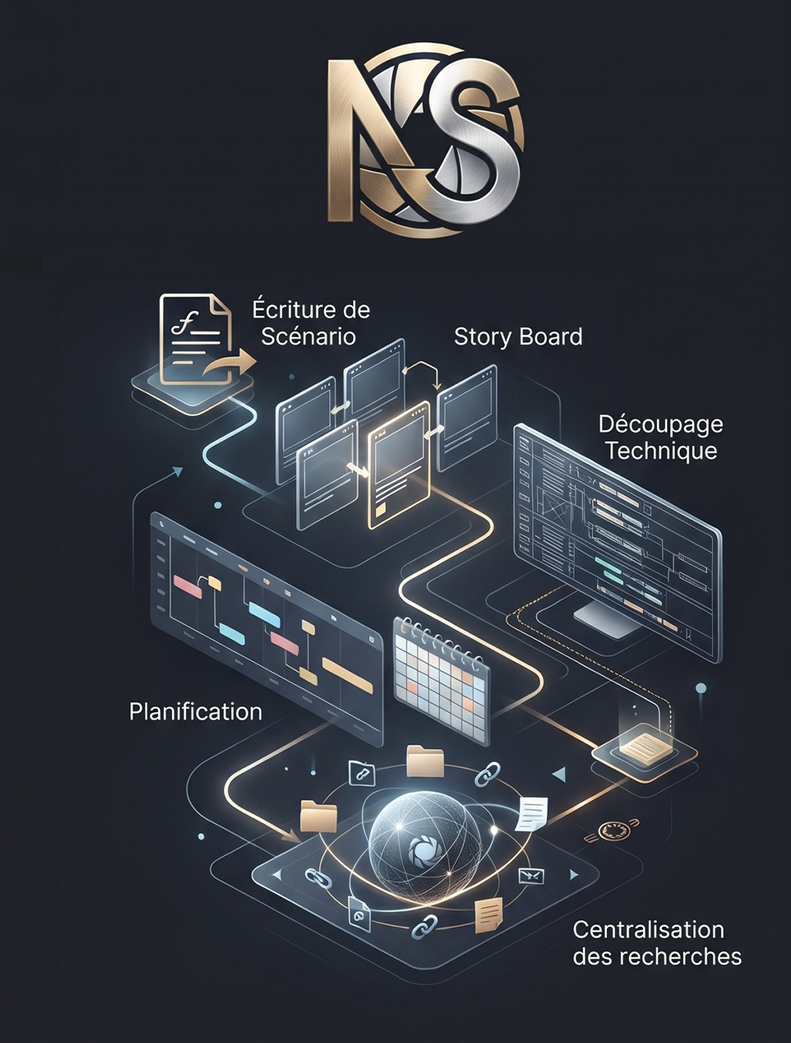
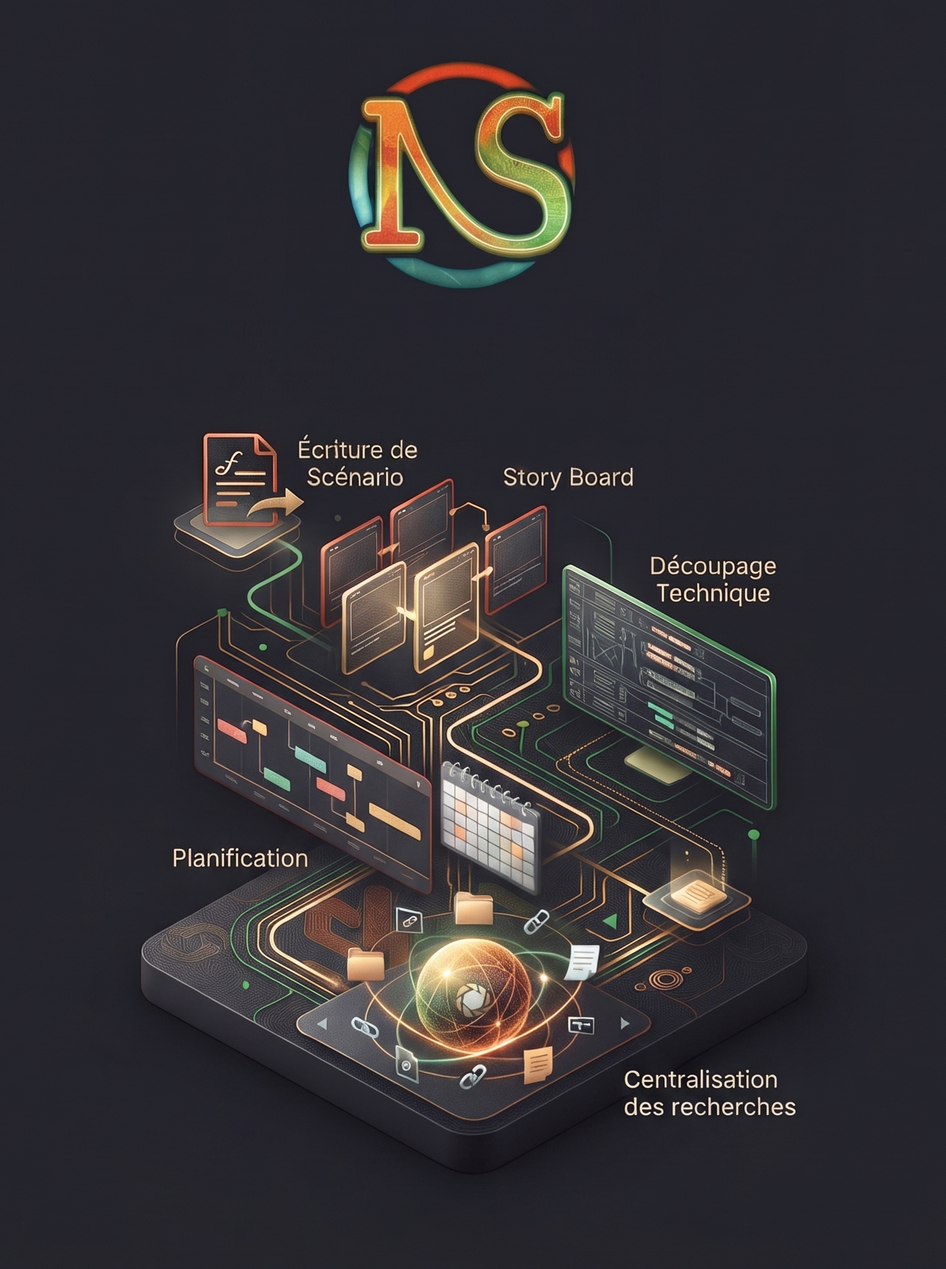
Réalise l'étape 17A : barre de modules réordonnée et « Données du projet »
- Nouvel ordre : Données du projet, Planification, Cartes, Scénario, Statistiques.
- « Recherches » devient « Données du projet » à l'écran ; icône dossier.
- Nouveau visuel d'accueil (visuel-accueil.jpg).
- Ajoute la spec du lot 1 (étape 17) et l'essai barre-modules.mjs ; met à jour les essais existants.

Changed region(s): [[0.1236, 0.2778, 0.9577, 0.9568], [0.3707, 0.0309, 0.6797, 0.2469], [0.865, 0.6481, 0.8959, 0.679]]

diff --git a/src/renderer/components/ModuleBar.tsx b/src/renderer/components/ModuleBar.tsx
@@ -16,10 +16,10 @@ interface ModuleEntry {
 // Les modules sans identifiant ne sont pas encore disponibles : visibles mais grisés.
 const MODULES: ModuleEntry[] = [
   { icon: 'research', name: fr.modules.research, id: 'research' },
+  { icon: 'planning', name: fr.modules.planning, id: 'planning' },
   { icon: 'cards', name: fr.modules.cards, id: 'cards' },
   { icon: 'script', name: fr.modules.script, id: 'script' },
-  { icon: 'stats', name: fr.modules.stats, id: 'stats' },
-  { icon: 'planning', name: fr.modules.planning, id: 'planning' }
+  { icon: 'stats', name: fr.modules.stats, id: 'stats' }
 ]
 
 /** Barre verticale des modules, avec en haut le menu du projet (☰). */

diff --git a/src/renderer/i18n/fr.ts b/src/renderer/i18n/fr.ts
@@ -214,7 +214,7 @@ const macTexts = {
   },
   modules: {
     project: 'Projet',
-    research: 'Recherches',
+    research: 'Données du projet',
     cards: 'Cartes',
     script: 'Scénario',
     stats: 'Statistiques',
@@ -222,7 +222,7 @@ const macTexts = {
     comingSoon: (name: string): string => `${name} — Bientôt disponible`
   },
   research: {
-    tree: 'Recherches',
+    tree: 'Données du projet',
     characters: 'Personnages',
     places: 'Lieux',
     documents: 'Documents',

diff --git a/src/renderer/components/Icon.tsx b/src/renderer/components/Icon.tsx
@@ -2,7 +2,7 @@
 
 const PATHS = {
   menu: 'M4 6h16M4 12h16M4 18h16',
-  research: 'M10.5 4a6.5 6.5 0 1 0 0 13 6.5 6.5 0 0 0 0-13zM15.5 15.5 20 20',
+  research: 'M3 6h6l2 2h10v11H3z',
   cards: 'M3 5h7v6H3zM14 5h7v6h-7zM3 14h7v6H3zM14 14h7v6h-7z',
   script: 'M6 3h9l4 4v14H6zM15 3v4h4M9 11h7M9 15h7',
   stats: 'M5 20V11M10 20V5M15 20v-7M20 20V8',

diff --git a/Documentation/specs/etape-17-lot-1-retours.md b/Documentation/specs/etape-17-lot-1-retours.md
@@ -1,0 +1,131 @@
+# Étape 17 — Lot 1 des retours d'usage (avant 16D)
+
+Source : note de David du 21 novembre 2026 (`VaultObsidian/00_Inbox/NeoScenar - Mise à jour.md`) et `etat-du-projet.md`, section « Retours d'usage (21 nov.) ».
+
+## Périmètre
+
+Dans ce lot :
+
+1. Barre de modules : nouvel ordre, « Recherches » devient « Données du projet », icône dossier.
+2. Panneau « Données du projet » : indentation, rubrique active en couleur.
+3. Générique : rubriques repliées par défaut, état gardé, boutons « Tout réduire » et « Tout déployer ».
+4. Module Carte : autocomplétion de l'en-tête de scène.
+5. Préférences : entrées personnelles pour les menus Échelle de plan, Mouvement de caméra et Angle de prise de vue.
+6. Nouvelle icône de l'application et visuel d'accueil.
+
+**Hors de ce lot** (après 16D, ne rien préparer) : nouveaux documents (log line, tag line, synopsis, pitch, note d'intention), nouvel ordre des rubriques qui les inclut, fenêtre d'export avec cases à cocher, plan de tournage (personnages sans dialogue, interprètes ajoutés à la main). **Écarté** : réglage des raccourcis de la barre d'outils du scénario.
+
+Règle commune : on ne renomme **rien dans le code ni dans les fichiers du projet** (`research`, dossiers `personnages/`, `lieux/`, `documents/` restent tels quels). Seuls les textes affichés changent.
+
+Une sous-étape = plan court, réalisation, essais, accord de David, commit, mise à jour de `etat-du-projet.md`, `/clear`.
+
+---
+
+## 17A — Barre de modules
+
+**À faire**
+
+- Ordre des boutons, de haut en bas : **Données du projet, Planification, Carte, Scénario, Statistiques**.
+- Texte affiché « Recherches » → « Données du projet » partout où il apparaît à l'écran : infobulle du bouton, titre du panneau (`fr.ts` : `research`, `tree`), menus de l'application, messages, écran d'accueil, aide. Rechercher toutes les occurrences visibles.
+- Icône du bouton : un **dossier** (même famille de trait que les autres icônes de la barre, même taille, même épaisseur) à la place de la loupe.
+- Si des raccourcis clavier ou un ordre de cycle (module suivant / précédent) dépendent de la position des boutons, ils suivent le nouvel ordre. Le module ouvert par défaut à l'ouverture d'un projet ne change pas.
+
+**Critères de validation**
+
+- [ ] La barre montre, de haut en bas : dossier, planification, carte, scénario, statistiques.
+- [ ] Le mot « Recherches » n'apparaît plus nulle part à l'écran (sauf texte du visuel d'accueil).
+- [ ] L'icône dossier est lisible sur les 7 thèmes, active comme inactive.
+- [ ] Un projet existant s'ouvre sans changement de ses fichiers.
+
+## 17B — Panneau « Données du projet » : lisibilité
+
+**À faire**
+
+- **Indentation** : les éléments d'une rubrique (personnages, lieux, documents) sont décalés vers la droite par rapport au titre de la rubrique, comme sur l'image de référence (`Données Projet.jpg`, colonne « Nouveau menu ») : la pastille de couleur des personnages et le texte des lieux s'alignent en retrait, nettement sous le texte du titre de rubrique. Les sous-dossiers de Documents gardent leur décalage propre, en plus de ce retrait.
+- **Rubrique active** : en plus du soulignement actuel, le texte prend la couleur d'accent du thème (`--accent`). Même règle pour l'élément sélectionné (fiche ou document ouvert), si ce n'est pas déjà le cas.
+- L'ordre actuel des rubriques ne change pas dans ce lot.
+
+**Critères de validation**
+
+- [ ] Le retrait est visible et régulier dans Personnages, Lieux et Documents.
+- [ ] La rubrique active est soulignée **et** colorée, sur les 7 thèmes, avec un contraste suffisant.
+- [ ] Les noms longs passent toujours correctement (coupure ou points de suspension comme avant).
+
+## 17C — Générique : rubriques repliables
+
+**À faire**
+
+- Chaque rubrique du formulaire du Générique (distribution, équipe, musiques, mentions, logos…) peut être repliée ou déployée en cliquant sur son titre (flèche comme dans le panneau des données).
+- **Projet neuf, ou projet dont l'état n'a jamais été enregistré : toutes les rubriques sont repliées.**
+- L'état (rubriques ouvertes) est **gardé** : quand on quitte le Générique et qu'on y revient, et aussi après fermeture et réouverture de l'application. Il est enregistré dans les **préférences de l'application, par projet** (pas dans les fichiers du projet : c'est un réglage d'affichage). Clé : identifiant du projet si `projet.json` en a un, sinon son chemin.
+- En haut, à côté du titre « Générique du film » : deux boutons texte **« Tout réduire »** et **« Tout déployer »**.
+- L'aperçu du générique n'est pas touché.
+
+**Critères de validation**
+
+- [ ] Nouveau projet → Générique : toutes les rubriques sont repliées.
+- [ ] J'ouvre deux rubriques, je vais dans Carte, je reviens : les deux sont toujours ouvertes.
+- [ ] Même chose après avoir quitté et relancé NeoScenar.
+- [ ] « Tout déployer » puis « Tout réduire » font ce qu'ils disent, et l'état est gardé ensuite.
+- [ ] Un champ rempli dans une rubrique repliée n'est pas perdu.
+
+## 17D — Carte : autocomplétion de l'en-tête de scène
+
+**À faire**
+
+- Le champ « En-tête » du panneau de détail d'une scène (`DetailPanel.tsx`, `HeadingField`) propose la même aide à la frappe que l'éditeur de scénario pour un en-tête : préfixes (INT. / EXT. / INT./EXT.), lieux déjà utilisés et fiches Lieux, puis moments après « - » (`sceneTimes` du vocabulaire).
+- **Réutiliser** la logique de `src/renderer/script/completion/proposals.ts` (ne pas la recopier). Si elle dépend de CodeMirror, extraire la partie qui calcule les propositions en fonction pure, utilisée par les deux.
+- Comportement de la liste : flèches haut / bas, Entrée ou Tab pour accepter, Échap pour fermer sans annuler la saisie. Aspect proche de `TermCombobox.tsx`.
+- La validation de l'en-tête (enregistrement, écriture dans le Fountain) ne change pas.
+
+**Critères de validation**
+
+- [ ] Je tape « IN » : INT. est proposé ; après « INT. », les lieux du projet sont proposés ; après « - », JOUR, NUIT… sont proposés.
+- [ ] Les propositions sont les mêmes que dans l'éditeur de scénario pour la même saisie.
+- [ ] Échap ferme la liste sans effacer ; Entrée accepte ; une saisie libre reste possible.
+- [ ] Tests de `proposals` toujours verts, plus un test pour la fonction partagée.
+
+## 17E — Préférences : entrées personnelles des menus de plan
+
+**À faire**
+
+- Dans les Préférences, une section « Vocabulaire des plans » avec trois listes : **Échelle de plan, Mouvement de caméra, Angle de prise de vue**.
+- Chaque liste montre d'abord les entrées du cours (fichier `resources/vocabulaire/saint-luc.json`), **non modifiables**, puis les entrées personnelles, qu'on peut **ajouter, renommer, supprimer**. Une entrée personnelle = un libellé (obligatoire) et une définition (facultative, affichée en infobulle comme les autres).
+- Pas de doublon : un libellé déjà présent (même casse ignorée) est refusé avec un message clair.
+- Les entrées personnelles sont gardées dans les préférences de l'application (`src/main/preferences.ts`), pour tous les projets.
+- Dans le module Carte, les menus proposent les entrées du cours puis les entrées personnelles.
+- **Une valeur hors liste reste affichée** : si une carte contient une valeur qui n'est plus (ou pas) dans la liste (entrée supprimée, projet venu d'un autre ordinateur), elle est montrée telle quelle dans le champ, et n'est jamais effacée ni modifiée en silence.
+- Le format des projets ne change pas : la carte garde le libellé, comme aujourd'hui.
+
+**Critères de validation**
+
+- [ ] J'ajoute « Plan drone » dans Mouvement de caméra : il apparaît dans le menu des plans, avec sa définition en infobulle.
+- [ ] Je supprime cette entrée : les plans qui l'utilisaient l'affichent toujours.
+- [ ] Les entrées du cours ne peuvent être ni renommées ni supprimées.
+- [ ] Un doublon est refusé avec un message.
+- [ ] Les entrées restent après redémarrage.
+
+## 17F — Icône de l'application et visuel d'accueil
+
+**Fichiers fournis par David** : `resources/accueil/logo.png` (1024 × 1024, logo « NS » rond) et `resources/accueil/visuel-accueil.jpeg` (nouveau visuel, déjà en place : David a remplacé le fichier directement).
+
+**À faire**
+
+- **Icône** : produire `build/icon.png` à partir de `resources/accueil/logo.png`, en 1024 × 1024, fond transparent. Si le logo touche les bords, réduire légèrement pour laisser une marge d'environ 10 % (convention des icônes macOS), sans le déformer.
+  - Vérifier que electron-builder produit bien l'icône macOS, Windows (.ico) et Linux à partir de ce fichier.
+  - Vérifier aussi l'icône de la fenêtre (Linux, Windows), celle du Dock en mode développement si elle est réglée dans le code, et le logo de la fenêtre « À propos » s'il en utilise un.
+- **Visuel d'accueil** : rien à remplacer. Vérifier seulement l'affichage dans l'écran d'accueil (image en portrait : pas de déformation, pas de recadrage qui coupe le logo ou les textes, rendu correct en petite et grande fenêtre). Si un réglage d'affichage est nécessaire, proposer avant de changer.
+
+**Critères de validation**
+
+- [ ] `npm run build` puis l'application empaquetée Mac montre la nouvelle icône dans le Finder et le Dock.
+- [ ] Le Windows et le Linux du brouillon de Release auront la nouvelle icône (à revérifier en 16D ; ajouter une ligne dans `essais-16D.md`).
+- [ ] L'écran d'accueil montre le visuel entier et net, sur les 7 thèmes.
+
+---
+
+## Fin du lot
+
+- Suite complète des tests et lint verts.
+- Mettre à jour `etat-du-projet.md` : « Retours d'usage, lot 1 » passe en **Terminé** ; prochaine étape : 16D. Ajouter à `essais-16D.md` : icône, autocomplétion de l'en-tête, entrées personnelles des préférences.
+- Les installeurs du brouillon de Release `v0.1.0` sont à **reconstruire** avant 16D pour inclure ce lot.

diff --git a/Documentation/etat-du-projet.md b/Documentation/etat-du-projet.md
@@ -4,7 +4,7 @@ Détail des décisions passées : decisions-archive.md (ne lire qu'en cas de bes
 
 Page courte, à lire **en premier** au début de toute nouvelle conversation (projet Claude) ou session (Claude Code). Elle est tenue à jour par Claude Code à chaque commit d'étape ou de sous-étape. Le détail se trouve dans `cahier-des-charges.md` (référence complète) et `specs/` (une spécification par étape) : ne les lire qu'en cas de besoin.
 
-Dernière mise à jour : 21 novembre 2026 (étapes 0 à 15 et 16A à 16C terminées ; « À propos » réalisée, en attente de validation ; prochaine : 16D).
+Dernière mise à jour : 21 novembre 2026 (étapes 0 à 15, 16A à 16C et 17A terminées ; « À propos » réalisée, en attente de validation ; prochaine : 17B, puis 16D).
 
 ## Où on en est
 
@@ -37,7 +37,7 @@ Les numéros de commit antérieurs au 20 novembre 2026 (par exemple `710449c`) r
 - **Principes non négociables** : gratuit, 100 % local, sans compte, fichiers ouverts, interface en français, macOS d'abord, puis Windows et Linux (étape 16). Licence GPL-3.0. Blender 4.5 LTS.
 - **Écarté** : envoi par e-mail depuis NeoScenar.
 - **Retours d'usage (21 nov.)** :
-  - *À faire, lot 1 avant 16D* : ordre de la barre (Données du projet, Planification, Carte, Scénario, Statistiques) ; « Recherches » devient « Données du projet », icône dossier ; Générique replié par défaut, état gardé, boutons Tout réduire / Tout déployer ; panneau indenté, rubrique active en couleur ; nouvelle icône de l'appli et nouveau visuel d'accueil ; carte : autocomplétion de l'en-tête de scène ; préférences : entrées des menus échelle, mouvement et angle (une valeur hors liste reste affichée).
+  - *Lot 1 avant 16D, spec `specs/etape-17-lot-1-retours.md`* : **17A terminée** (barre : Données du projet, Planification, Cartes, Scénario, Statistiques ; icône dossier ; nouveau visuel d'accueil en place sous le nom `visuel-accueil.jpg`). *Reste à faire* : 17B panneau indenté, rubrique active en couleur ; 17C Générique replié par défaut, état gardé, boutons Tout réduire / Tout déployer ; 17D carte : autocomplétion de l'en-tête de scène ; 17E préférences : entrées des menus échelle, mouvement et angle (une valeur hors liste reste affichée) ; 17F nouvelle icône de l'appli (`logo.png`) et vérification de l'accueil.
   - *Après 16D* : nouveaux documents (log line, tag line, synopsis, pitch, note d'intention) en Markdown dans `neoscenar/`, et fenêtre d'export avec cases à cocher (page de titre, scénario, synopsis, pitch, note d'intention) ; log line et tag line dans le PDF seulement, jamais dans le Fountain ; plan de tournage : personnages cités sans dialogue proposés comme suggestions, et interprètes ajoutés à la main par jour.
   - *Écarté* : réglage des raccourcis.
 - **Thèmes (19 nov.)** : Par défaut (l'actuel), Cobalt, Or, Matrix, PinkLady, Forest, Aqua. À l'écran, la page du scénario suit le thème (couleur du fond et du texte), toujours en Courier et au format Final Draft A4. Les couleurs des éléments du scénario (notes en vert, bandeaux d'actes…) sont réglables dans les préférences, pour l'écran seulement. Les exports (PDF) restent toujours en page blanche, texte noir, Courier, Final Draft A4 : les thèmes n'y touchent jamais.
